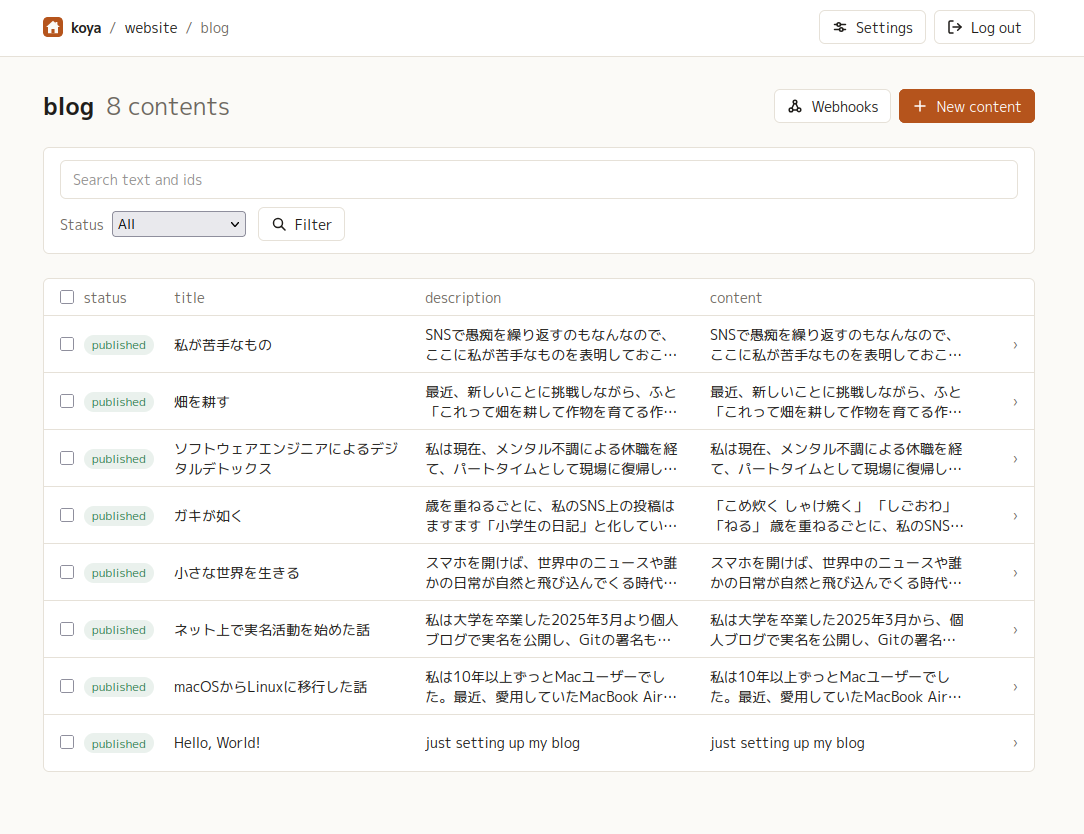
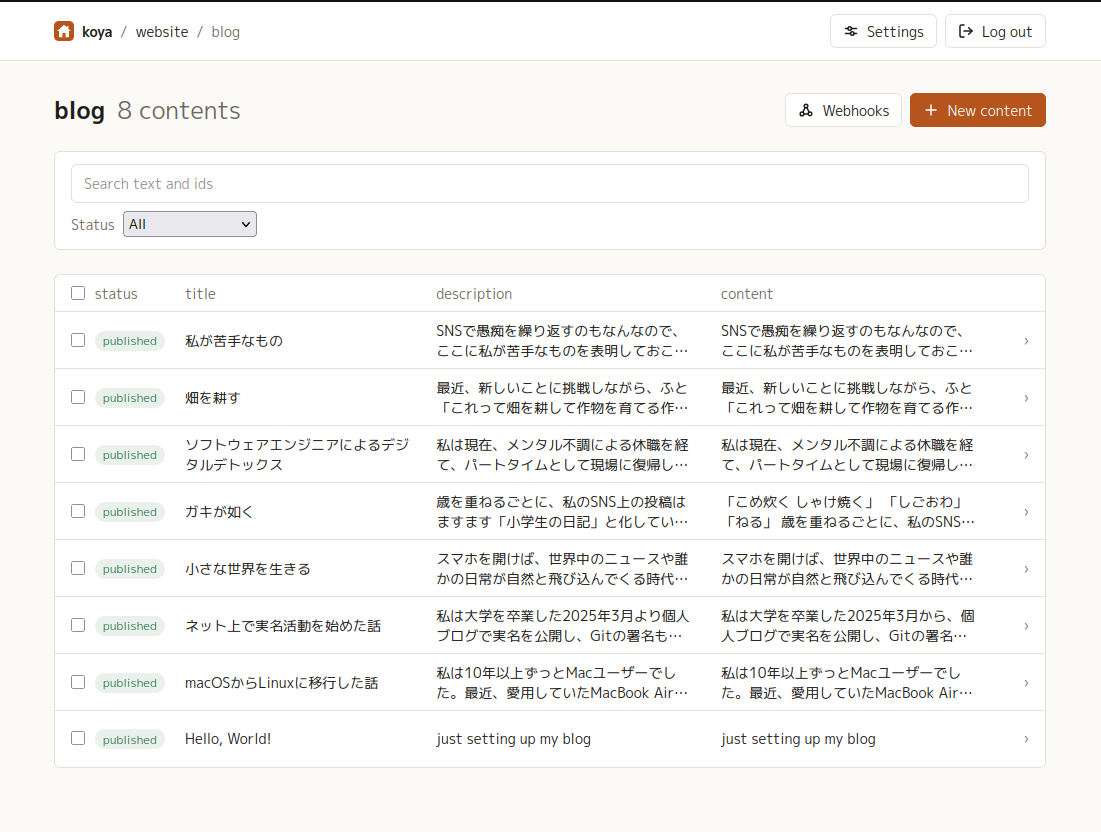
What came of an action shows as a toast, and goes by itself
The flash is now a toast at the top of the screen: it comes up, stays
five seconds (ten for an error) and goes, waiting while the pointer is
on it, with no script -- a CSS animation that restarts whenever an
action's answer puts a new one in out of band. Successes are a status
and errors an alert for screen readers, and reduced motion keeps it
still. It is called a toast everywhere now: set-toast, ~toast, #toast.

A button that cannot be pressed shows the not-allowed cursor, and the
screenshots of the content list, the webhook log and the media library
are the pages as they are now.

diff --git a/assets/style/global.css b/assets/style/global.css
@@ -31,7 +31,7 @@ body {
 }
 
 .btn {
-  @apply inline-flex cursor-pointer items-center gap-2 rounded-md border border-line bg-panel px-3 py-1.5 text-sm font-medium text-fg hover:bg-base disabled:cursor-default disabled:opacity-50;
+  @apply inline-flex cursor-pointer items-center gap-2 rounded-md border border-line bg-panel px-3 py-1.5 text-sm font-medium text-fg hover:bg-base disabled:cursor-not-allowed disabled:opacity-50;
 }
 .btn-primary {
   @apply border-accent bg-accent text-accent-fg hover:bg-accent/90;
@@ -81,6 +81,33 @@ dialog.koya-dialog[open] {
 }
 dialog.koya-dialog::backdrop {
   background: rgb(31 29 26 / 0.4);
+}
+
+/* A toast (~toast) comes up, stays a while and goes by itself, and waits while
+   the pointer is on it. It stays in the page, invisible, until the next one takes
+   its place. */
+.toast {
+  animation: toast 5s ease forwards;
+}
+.toast-long {
+  animation-duration: 10s;
+}
+.toast:hover {
+  animation-play-state: paused;
+}
+@keyframes toast {
+  0% { opacity: 0; translate: 0 -0.5rem; }
+  6% { opacity: 1; translate: 0 0; }
+  92% { opacity: 1; }
+  100% { opacity: 0; visibility: hidden; }
+}
+@keyframes toast-still {
+  0% { opacity: 0; }
+  6%, 92% { opacity: 1; }
+  100% { opacity: 0; visibility: hidden; }
+}
+@media (prefers-reduced-motion: reduce) {
+  .toast { animation-name: toast-still; }
 }
 
 /* Quill */

diff --git a/assets/js/koya-editor.js b/assets/js/koya-editor.js
@@ -292,7 +292,7 @@ onEach("iframe[data-fit-content]", (frame) => {
 // body itself, not as a multipart form, so the server can copy it to disk instead
 // of holding it in memory. htmx sends forms only, so this is a fetch that says it
 // is htmx, as an action requires. The answer names the page to go to in
-// HX-Redirect, where the result waits as a flash.
+// HX-Redirect, where the result waits as a toast.
 document.addEventListener("DOMContentLoaded", () => {
   document.querySelectorAll("form[data-import]").forEach((form) => {
     const error = form.querySelector("[data-import-error]");

diff --git a/docs/ARCHITECTURE.md b/docs/ARCHITECTURE.md
@@ -95,9 +95,9 @@ A page route answers GET and draws a page; everything done on it is an action
 (`defaction`), defined beside the page that calls it. The actions middleware lets
 through htmx requests only, from the owner's session and this origin, and sends a
 request that has lost its session to the login page with `HX-Redirect`. An action
-answers the part of the page it changed, under that part's id, and the flash out
-of band into the layout's `#flash`; a result on another page is an `HX-Redirect`
-with the flash in the session. A path declared with `public-path` (`lib/auth`)
+answers the part of the page it changed, under that part's id, and the toast out
+of band into the layout's `#toast`; a result on another page is an `HX-Redirect`
+with the toast in the session. A path declared with `public-path` (`lib/auth`)
 needs no session; logging in is the only one. Searching, filtering, sorting and
 paging a list are actions as well, answered with `HX-Replace-Url` so the page's
 URL still carries that state for its GET to draw. See

diff --git a/docs/ADMIN-UI.md b/docs/ADMIN-UI.md
@@ -53,6 +53,9 @@ no user accounts: whoever knows the secret is the owner.
 - The admin UI needs JavaScript. What is done on a page — saving, publishing,
   uploading, deleting, making a key — is sent with htmx and answered in place,
   so the page does not reload; moving between pages is ordinary navigation.
+  What came of it shows in a toast at the top of the screen that goes by itself
+  — after a few seconds, or twice as long for an error — and waits while the
+  pointer is on it.
   Searching, filtering, sorting and paging a list are answered in place too, and
   the URL is replaced with them, so a reload, a bookmark or the back button from
   another page comes back to the list as it was left. The steps in between are
